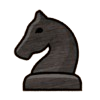
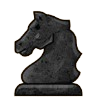
java swing
updated classes icons, created folders for menu and classes

Changed region(s): [[0.12, 0.09, 0.84, 0.99]]

diff --git a/src/pieces/Pawn.java b/src/pieces/Pawn.java
@@ -1,12 +1,15 @@
 package pieces;
 import javax.swing.ImageIcon;
 
-import board.Square;
 import colors.*;
 
 public class Pawn extends Piece{//TODO PEAO POSSUI OS ATRIBUTOS PADROES DE UMA PEÇA DEFAULT, Q É O MODELO
     
-    private char symbol;
+	
+	private static final long serialVersionUID = 1L;
+	
+	
+	private char symbol;
     private ImageIcon PawnIcon;
     
     public Pawn(Cores color){
@@ -14,13 +17,13 @@ public class Pawn extends Piece{//TODO PEAO POSSUI OS ATRIBUTOS PADROES DE UMA P
         
         if(color == Cores.WHITE) {
         	this.symbol = '\u2659'; //CARACTERES EM UNICODE PARA PRINTAR O EMOJI DAS PEÇAS
-        	this.PawnIcon = new ImageIcon(Square.class.getResource("/imgs/pieces/white/pawn.png"));
+        	this.PawnIcon = new ImageIcon(Pawn.class.getResource("/imgs/pieces/white/pawn.png"));
         	
         }
         else {
         	
         	this.symbol = '\u265F';
-        	this.PawnIcon = new ImageIcon(Square.class.getResource("/imgs/pieces/black/pawn.png"));
+        	this.PawnIcon = new ImageIcon(Pawn.class.getResource("/imgs/pieces/black/pawn.png"));
         }
         
     }

diff --git a/src/board/Square.java b/src/board/Square.java
@@ -75,14 +75,14 @@ public class Square extends JPanel implements MouseListener{
 		switch(qtLines%2) {
 		case 0:
 		
-			if(qtSquare%2 == 0)this.lblNewLabel.setIcon(new ImageIcon(Square.class.getResource("/imgs/board/dark.png"))); 
-			else this.lblNewLabel.setIcon(new ImageIcon(Square.class.getResource("/imgs/board/light.png")));
+			if(qtSquare%2 == 0)this.lblNewLabel.setIcon(new ImageIcon(Square.class.getResource("/imgs/boardi/dark.png"))); 
+			else this.lblNewLabel.setIcon(new ImageIcon(Square.class.getResource("/imgs/boardi/light.png")));
 			break;
 			
 		case 1:
 			
-			if(qtSquare%2 == 0)this.lblNewLabel.setIcon(new ImageIcon(Square.class.getResource("/imgs/board/light.png"))); 
-			else this.lblNewLabel.setIcon(new ImageIcon(Square.class.getResource("/imgs/board/dark.png")));
+			if(qtSquare%2 == 0)this.lblNewLabel.setIcon(new ImageIcon(Square.class.getResource("/imgs/boardi/light.png"))); 
+			else this.lblNewLabel.setIcon(new ImageIcon(Square.class.getResource("/imgs/boardi/dark.png")));
 			break;
 			
 		}

diff --git a/src/pieces/Knight.java b/src/pieces/Knight.java
@@ -1,12 +1,14 @@
 package pieces;
 import javax.swing.ImageIcon;
 
-import board.Square;
 import colors.*;
 
 public class Knight extends Piece{
 
-    private char symbol;
+    
+	private static final long serialVersionUID = 1L;
+	
+	private char symbol;
     private ImageIcon KnightIcon;
     
 	public Knight(Cores color) {
@@ -15,13 +17,13 @@ public class Knight extends Piece{
 		
 		if(color == Cores.WHITE) {
 			this.symbol = '\u2658';
-			this.KnightIcon = new ImageIcon(Square.class.getResource("/imgs/pieces/white/knight.png"));
+			this.KnightIcon = new ImageIcon(Knight.class.getResource("/imgs/pieces/white/knight.png"));
 			
 		}
 		else {
 			
 			this.symbol = '\u265E';
-			this.KnightIcon = new ImageIcon(Square.class.getResource("/imgs/pieces/black/knight.png"));
+			this.KnightIcon = new ImageIcon(Knight.class.getResource("/imgs/pieces/black/knight.png"));
 		}
 		
 	}

diff --git a/src/pieces/Rook.java b/src/pieces/Rook.java
@@ -1,14 +1,26 @@
 package pieces;
+import javax.swing.ImageIcon;
+
 import colors.*;
 
 public class Rook extends Piece{
 	
+	private static final long serialVersionUID = 1L;
+	
 	private char symbol;
+	private ImageIcon RookIcon;
+	
 	public Rook(Cores color) {
 		super(color);
 		
-		if(color == Cores.WHITE)this.symbol = '\u2656';
-		else this.symbol = '\u265C';
+		if(color == Cores.WHITE) {
+			this.symbol = '\u2656';
+			this.RookIcon = new ImageIcon(Rook.class.getResource("/imgs/pieces/white/rook.png"));
+		}
+		else {
+			this.symbol = '\u265C';
+			this.RookIcon = new ImageIcon(Rook.class.getResource("/imgs/pieces/black/rook.png"));
+		}
 	}
 	
 	@Override
@@ -16,7 +28,10 @@ public class Rook extends Piece{
         return this.symbol;
     }
     
-	
+	@Override
+	public ImageIcon getIcon() {
+		return RookIcon;
+	}
 	
 	
 

diff --git a/src/pieces/Bishop.java b/src/pieces/Bishop.java
@@ -1,19 +1,36 @@
 package pieces;
+import javax.swing.ImageIcon;
 import colors.*;
 
 public class Bishop extends Piece{
 	
+	private static final long serialVersionUID = 1L;
+	
 	private char symbol;
+	private ImageIcon BishopIcon;
+	
 	public Bishop(Cores color) {
 		super(color);
 		
-		if(color == Cores.WHITE)this.symbol = '\u2657';
-		else this.symbol = '\u265D';
+		if(color == Cores.WHITE) {
+			this.symbol = '\u2657';
+			this.BishopIcon = new ImageIcon(Bishop.class.getResource("/imgs/pieces/white/bishop.png"));
+			
+		}
+		else {
+			this.symbol = '\u265D';
+			this.BishopIcon = new ImageIcon(Bishop.class.getResource("/imgs/pieces/black/bishop.png"));
+		}
 	}
 	
 	@Override
 	public char getSym(){
         return this.symbol;
+    }
+	
+	@Override
+    public ImageIcon getIcon() {
+    	return BishopIcon;
     }
     
 

diff --git a/src/pieces/Queen.java b/src/pieces/Queen.java
@@ -1,19 +1,36 @@
 package pieces;
+import javax.swing.ImageIcon;
+
 import colors.*;
 
 public class Queen extends Piece{
 
-    private char symbol;
+	private static final long serialVersionUID = 1L;
+	
+	private char symbol;
+	private ImageIcon QueenIcon;
+	
 	public Queen(Cores color) {
 		super(color);
 		
-		if(color == Cores.WHITE)this.symbol = '\u2655';
-		else this.symbol = '\u265B';
+		if(color == Cores.WHITE) {
+			this.symbol = '\u2655';
+			this.QueenIcon = new ImageIcon(Queen.class.getResource("/imgs/pieces/white/queen.png"));
+		}
+		else {
+			this.symbol = '\u265B';
+			this.QueenIcon = new ImageIcon(Queen.class.getResource("/imgs/pieces/black/queen.png"));
+		}
 	}
 	
 	@Override
 	public char getSym(){
         return this.symbol;
     }
+	
+	@Override
+	public ImageIcon getIcon() {
+		return QueenIcon;
+	}
 
 }

diff --git a/src/pieces/King.java b/src/pieces/King.java
@@ -1,19 +1,35 @@
 package pieces;
+import javax.swing.ImageIcon;
+
 import colors.*;
 
 public class King extends Piece{
     
-    private char symbol;
+	private static final long serialVersionUID = 1L;
+	
+	private char symbol;
+	private ImageIcon KingIcon;
+	
 	public King(Cores color) {
 		super(color);
 		
-		if(color == Cores.WHITE)this.symbol = '\u2654';
-		else this.symbol = '\u265A';
+		if(color == Cores.WHITE) {
+			this.symbol = '\u2654';
+			this.KingIcon = new ImageIcon(Knight.class.getResource("/imgs/pieces/white/king.png"));
+		}
+		else {
+			this.symbol = '\u265A';
+			this.KingIcon = new ImageIcon(Knight.class.getResource("/imgs/pieces/black/king.png"));
+		}
 	}
 	
 	@Override
 	public char getSym(){
         return this.symbol;
     }
-
+	
+	@Override
+	public ImageIcon getIcon() {
+		return KingIcon;
+	}
 }

diff --git a/src/board/Board.java b/src/board/Board.java
@@ -15,15 +15,9 @@ import java.awt.Color;
 import colors.*;
 import javax.swing.JLabel;
 import javax.swing.SwingConstants;
-import javax.swing.JTextField;
 import java.awt.Font;
 
-import javax.sound.sampled.*;
 import javax.swing.ImageIcon;
-import java.awt.event.KeyAdapter;
-import java.awt.event.KeyEvent;
-import java.io.File;
-import java.io.IOException;
 
 public class Board extends JFrame {
 
@@ -263,7 +257,7 @@ public class Board extends JFrame {
 		contentPane.add(sidePanel);
 		
 		JLabel sidePanelIMG = new JLabel("");
-		sidePanelIMG.setIcon(new ImageIcon(Board.class.getResource("/imgs/board/SidePanel.png")));
+		sidePanelIMG.setIcon(new ImageIcon(Board.class.getResource("/imgs/boardi/SidePanel.png")));
 		sidePanel.add(sidePanelIMG);
 		
 		JLabel bNum = new JLabel("b");

diff --git a/src/player/Player.java b/src/player/Player.java
@@ -1,13 +1,14 @@
-package main;
+package player;
 //import pieces.*;
+import colors.Cores;
 
 public class Player {
 
 
-    private int color; // COR 0 = BRANCO, COR 1 = PRETO
+    private Cores color; // COR 0 = BRANCO, COR 1 = PRETO
     private String name;
 
-    Player(String name, int color){
+    Player(String name, Cores color){
         this.color = color;
         this.name = name;
     }
@@ -18,7 +19,7 @@ public class Player {
     }
 
 
-    public int getColor(){
+    public Cores getColor(){
         return color;
     }
 

diff --git a/src/pieces/Piece.java b/src/pieces/Piece.java
@@ -12,12 +12,14 @@ import colors.*;
 public class Piece extends JLabel{
     
 
+	private static final long serialVersionUID = 1L;
+
 	private ImageIcon icon;
 
     private Cores color; // COR 0 = BRANCO, COR 1 = PRETO
     public Piece(Cores color){
 
-        this.color = color; 
+        this.color = color;
 
     }
 
@@ -32,7 +34,7 @@ public class Piece extends JLabel{
     }
     
     public ImageIcon getIcon() {
-    	return null;
+    	return icon;
     }
     //TODO eatpiece
 

diff --git a/src/menu/Menu.java b/src/menu/Menu.java
@@ -1,0 +1,5 @@
+package menu;
+
+public class Menu {
+
+}
